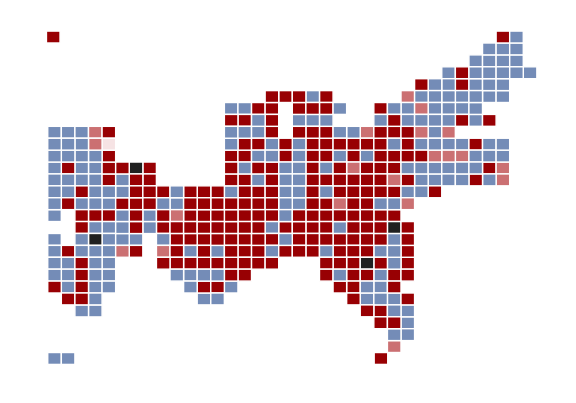
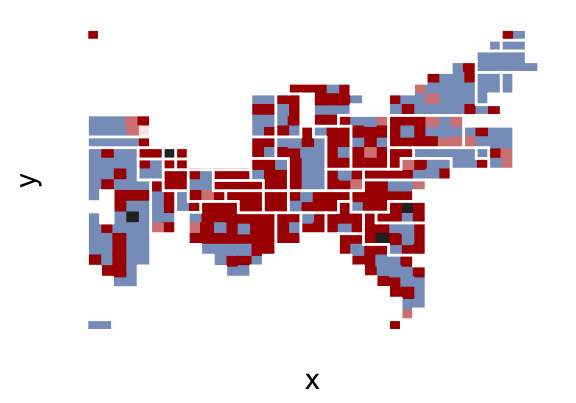
two different ways to draw the propublica-esque cartograms

diff --git a/README.md b/README.md
@@ -47,7 +47,7 @@ library(jsonlite)
 library(hrbrthemes)
 library(tidyverse)
 
-# current version
+# current verison
 packageVersion("voteogram")
 ```
 
@@ -128,14 +128,24 @@ senate_carto(sen) +
 <img src="README_files/figure-markdown_github/sen-1.png" width="960" />
 
 ``` r
-house_carto(rep) +
+house_carto(rep, pp_square=TRUE) +
   labs(x=NULL, y=NULL, 
        title="House Vote 256 - Passes American Health Care Act,\nRepealing Obamacare") +
   theme_ipsum_rc(plot_title_size = 24) +
   theme_voteogram()
 ```
 
-<img src="README_files/figure-markdown_github/rep_pp-1.png" width="960" />
+<img src="README_files/figure-markdown_github/rep_pp_square-1.png" width="960" />
+
+``` r
+house_carto(rep, pp_square=FALSE) +
+  labs(x=NULL, y=NULL, 
+       title="House Vote 256 - Passes American Health Care Act,\nRepealing Obamacare") +
+  theme_ipsum_rc(plot_title_size = 24) +
+  theme_voteogram()
+```
+
+<img src="README_files/figure-markdown_github/rep_pp_orig-1.png" width="960" />
 
 ### GovTrack
 
@@ -165,6 +175,12 @@ house_carto(rep) + theme_voteogram(legend=FALSE)
 
 <img src="README_files/figure-markdown_github/rep_small-1.png" width="288" />
 
+``` r
+house_carto(rep, pp_square=TRUE) + theme_voteogram(legend=FALSE)
+```
+
+<img src="README_files/figure-markdown_github/rep_small_1-1.png" width="288" />
+
 ### Test Results
 
 ``` r
@@ -174,7 +190,7 @@ library(testthat)
 date()
 ```
 
-    ## [1] "Sun May  7 11:45:36 2017"
+    ## [1] "Sun May  7 17:38:37 2017"
 
 ``` r
 test_dir("tests/")
